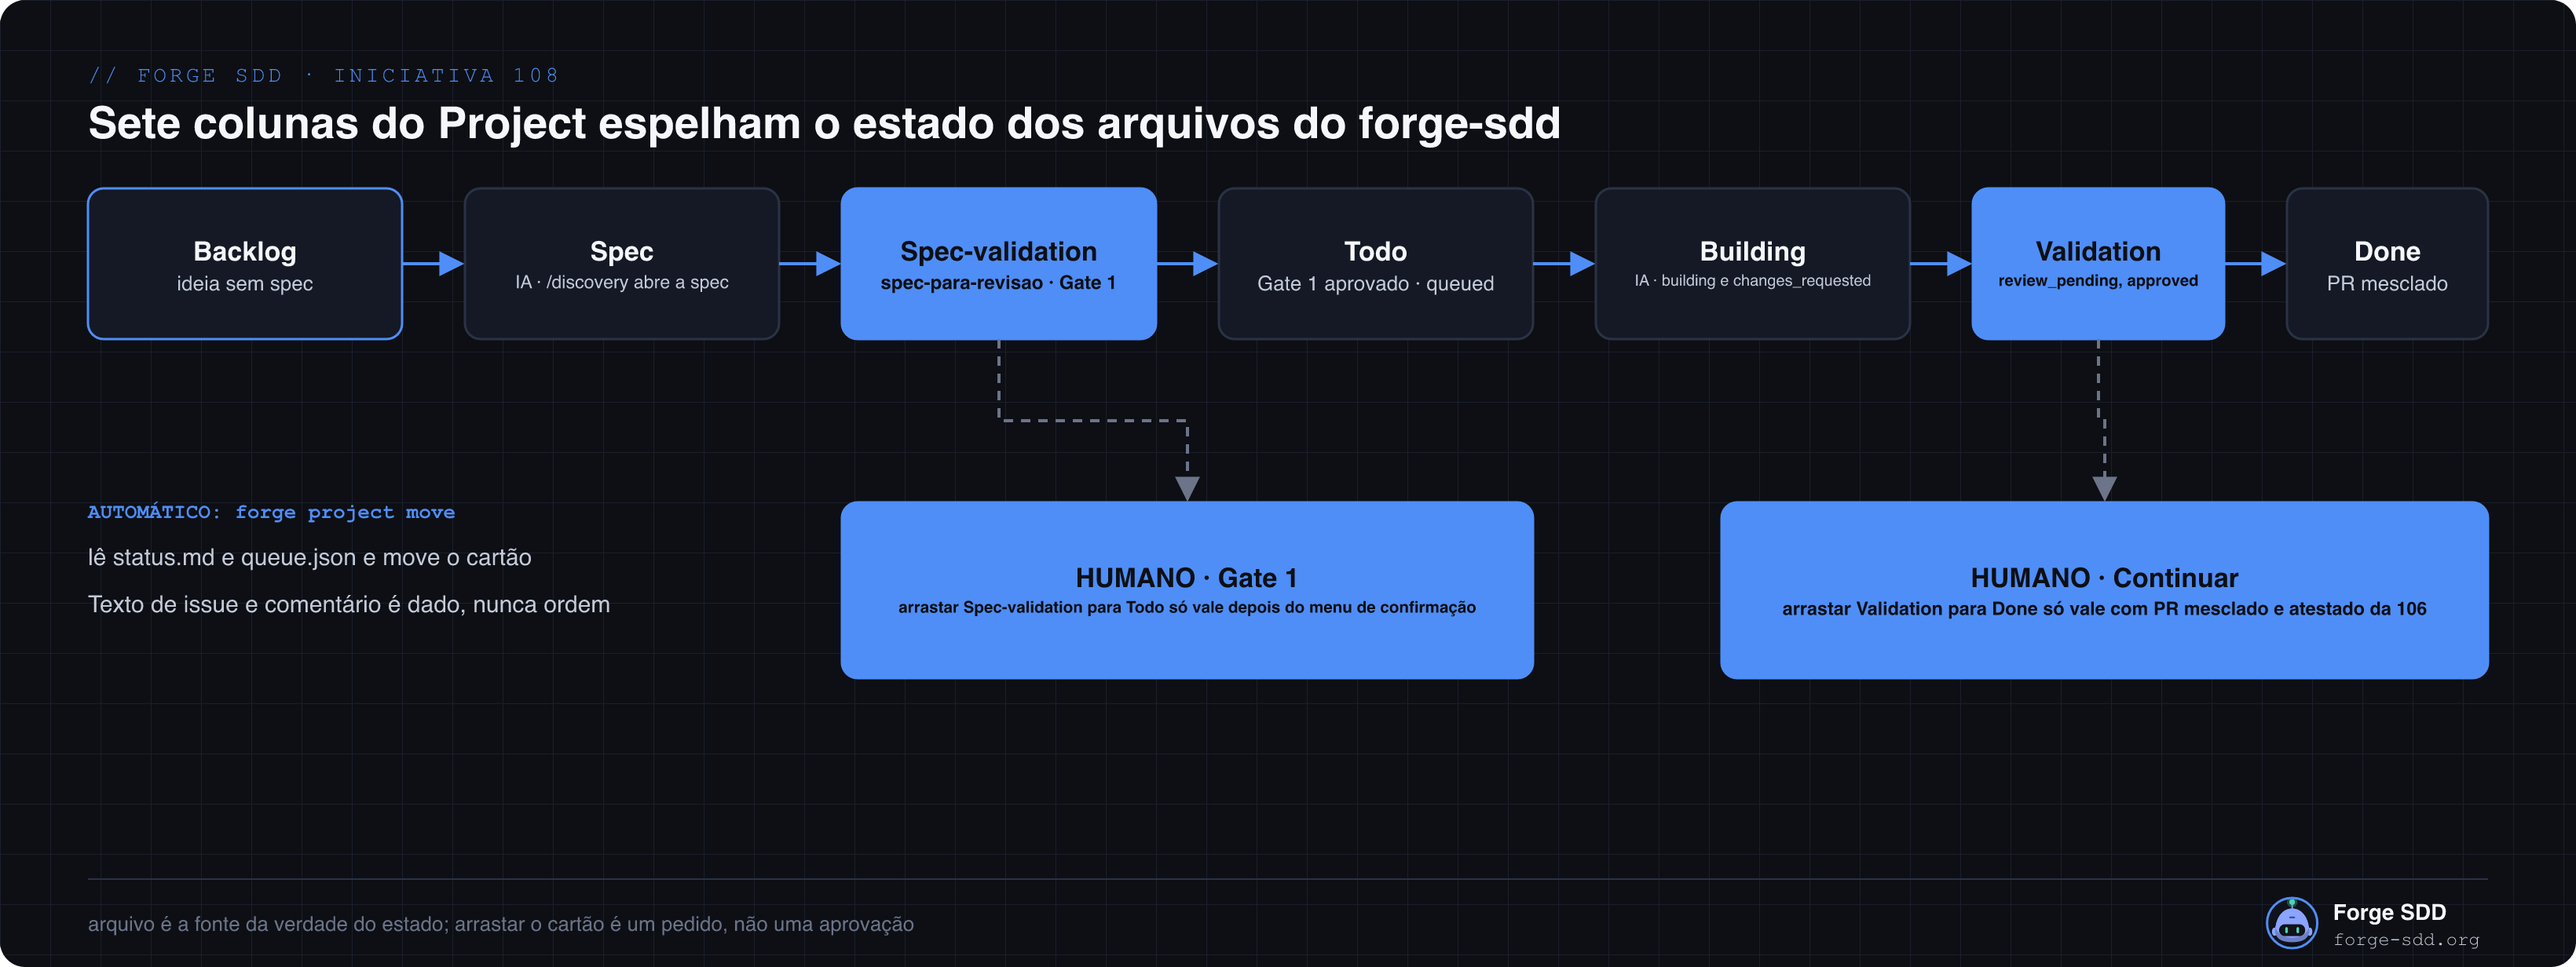
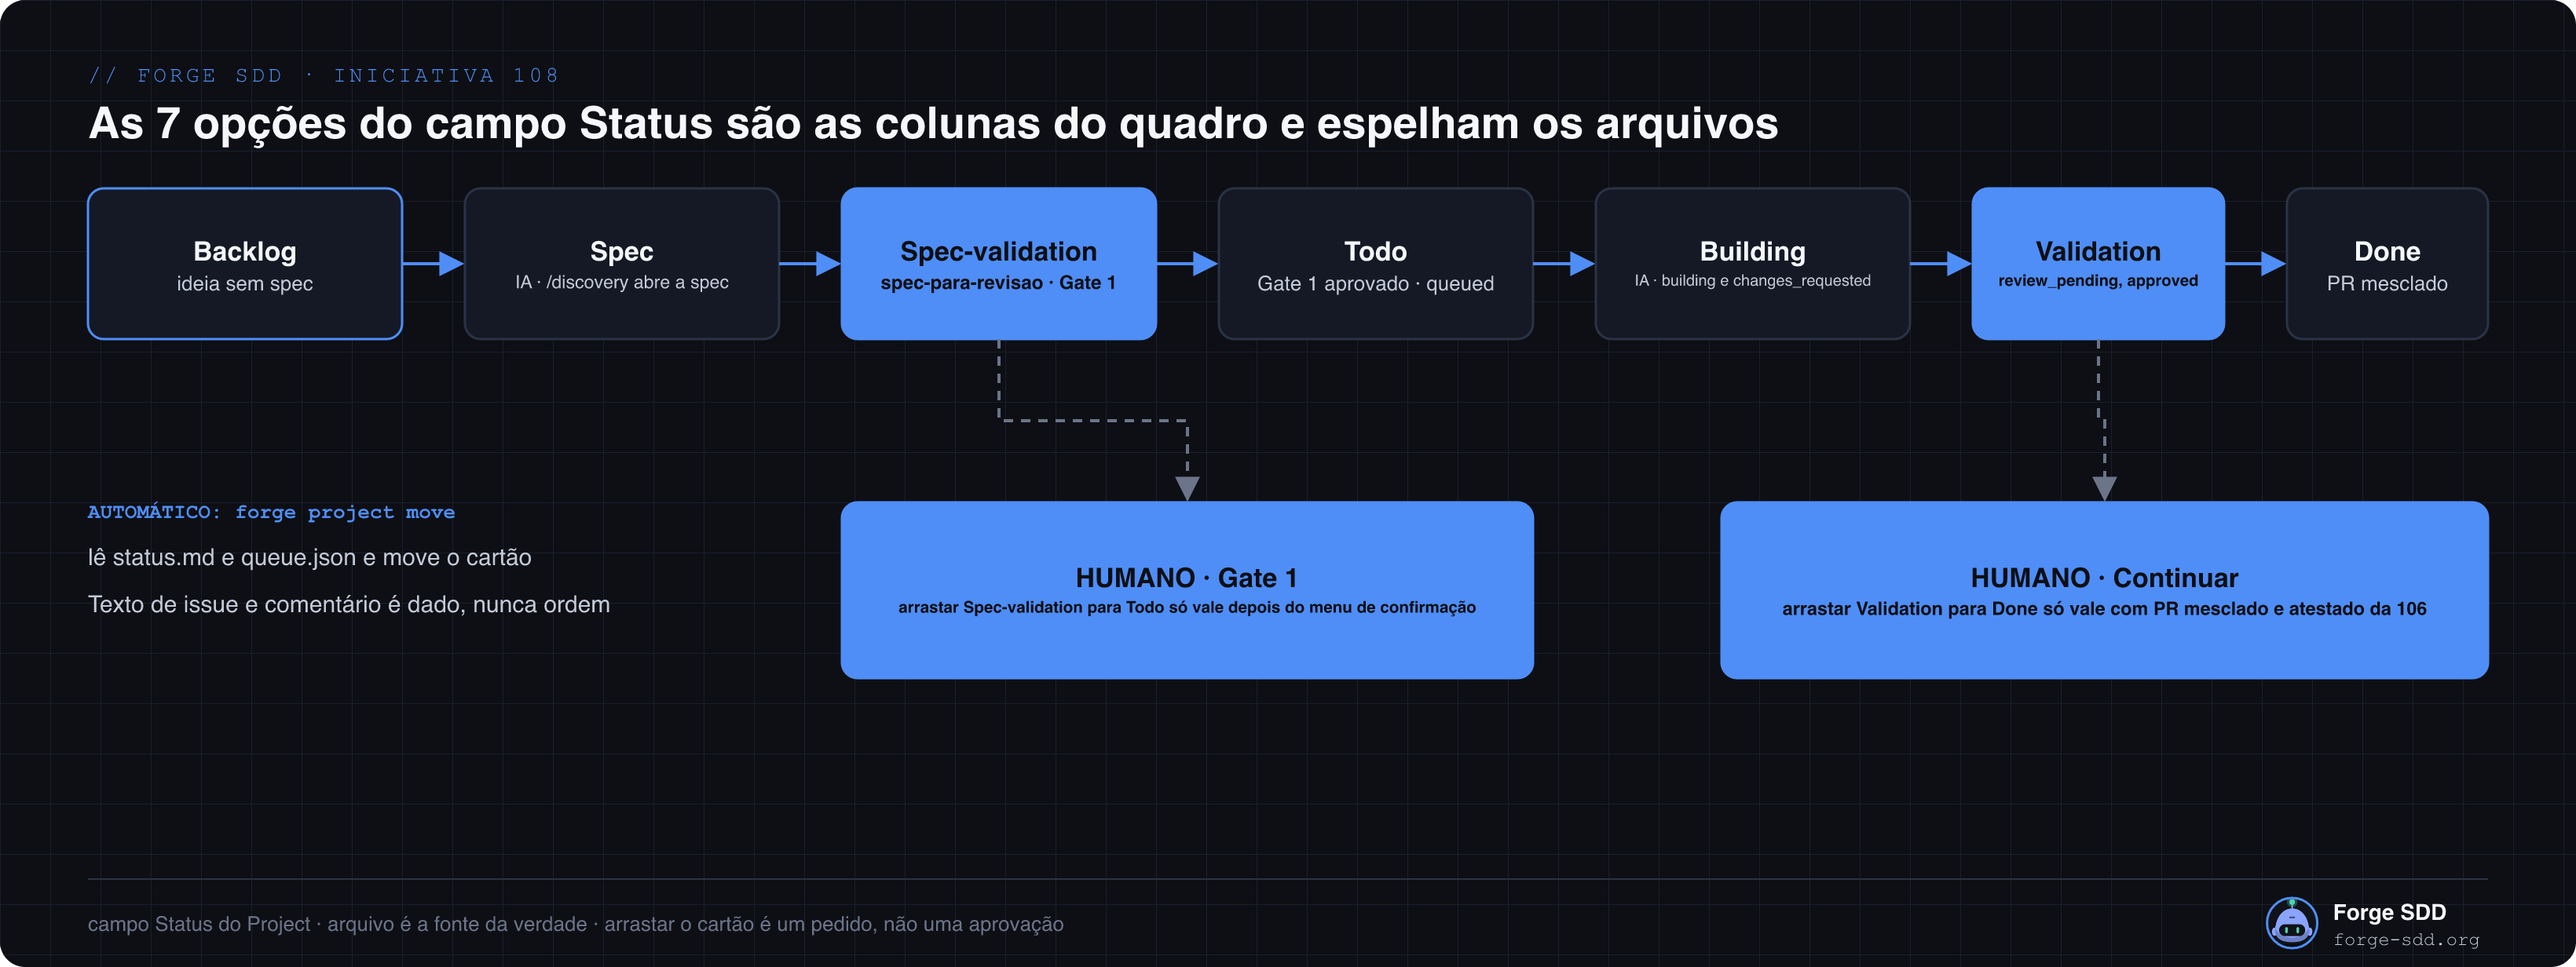
docs(108): o campo da etapa é o Status do Project (corrige premissa do Etapa)
Opções do Status por updateProjectV2Field e Board por createProjectV2View
(verificados em 20/11/2026); criar-project.sh reescrito; link com --owner
nathanramorim; diagramas e critérios sem o campo Etapa.

Claude-Session: https://claude.ai/code/session_01SPFA8upV4qiJJ5Y1pRT74k

Changed region(s): [[0.0311, 0.0925, 0.6841, 0.1542], [0.0311, 0.9253, 0.4043, 0.987]]

diff --git a/sdd/discovery/108-project-github-espelho-do-ciclo/discovery.md b/sdd/discovery/108-project-github-espelho-do-ciclo/discovery.md
@@ -16,7 +16,7 @@ Sinais encontrados: (1) o que o arrastar do humano autoriza (escopo com mais de 
 - **Constituição:** `sdd/memory/constitution.md:25` `| VCS / Work Item System | github |` e `:27` (com `azure-devops` usa `az repos pr`; com `nenhum`, branch pronta sem comandos de VCS). `sdd/memory/mcps.md` lista só `context7` e `git`: **nenhum MCP de gerenciador de projeto** está registrado.
 - **Skill:** `.agents/skills/sdd-governanca/references/pr-review.md:13`, passo 5: "mova o card pelo MCP para o status indicado".
 - **Fila em arquivo:** `internal/queue/queue.go:16-23` define os estados `queued`, `building`, `review_pending`, `approved`, `changes_requested`, `blocked`. `Complete` (`queue.go:464-480`) leva `building` para `review_pending`; `Review` (`queue.go:488`) leva a `approved`, `changes_requested` ou de volta a `review_pending`. `SpecStatus` assume `reviewed` (`queue.go:88,101,226`). `in_progress` e `completed` **não existem** como constantes em `internal/queue` (o pedido os citou como exemplo); `completed` aparece apenas no filtro da 105/1.5 (PR #124, ainda não mesclado). Jobs do barramento: `internal/bus/job.go:33-37` (`feature_build`, `pr_rework`, `pr_review`, `spec_review`). `forge queue` tem `enqueue`, `next`, `complete`, `review`, `list`, `panel`, `activity`.
-- **Fatos do `gh` (somente leitura, 20/11/2026):** `gh auth status` mostra o escopo `project`; `gh project list --owner nathanramorim` lista os projetos 1 a 3 (não relacionados, intocados); `gh project --help` lista `close`, `copy`, `create`, `delete`, `edit`, `field-create`, `field-delete`, `field-list`, `item-add`, `item-archive`, `item-create`, `item-delete`, `item-edit`, `item-list`, `link`, `list`, `mark-template`, `unlink`, `view`. **Não existe `field-edit`**: o CLI não altera as opções do campo "Status" padrão. `field-create --data-type SINGLE_SELECT --single-select-options a,b,c` cria um campo novo. `item-edit` exige `--project-id`, `--field-id`, `--single-select-option-id`, `--id` (IDs que vêm de `field-list --format json` e `item-list --format json`). `project create` não tem `--visibility`; `project edit --visibility {PUBLIC|PRIVATE}` tem. `gh issue list` neste repositório está vazio.
+- **Fatos do `gh` (somente leitura, 20/11/2026):** `gh auth status` mostra o escopo `project`; `gh project list --owner nathanramorim` lista os projetos 1 a 3 (não relacionados, intocados); `gh project --help` lista `close`, `copy`, `create`, `delete`, `edit`, `field-create`, `field-delete`, `field-list`, `item-add`, `item-archive`, `item-create`, `item-delete`, `item-edit`, `item-list`, `link`, `list`, `mark-template`, `unlink`, `view`. **Não existe `field-edit`**: o CLI não altera as opções do campo "Status" padrão. `field-create --data-type SINGLE_SELECT --single-select-options a,b,c` cria um campo novo. `item-edit` exige `--project-id`, `--field-id`, `--single-select-option-id`, `--id` (IDs que vêm de `field-list --format json` e `item-list --format json`; `item-list` expõe a etapa em `.status`). `project create` não tem `--visibility`; `project edit --visibility {PUBLIC|PRIVATE}` tem. `gh issue list` neste repositório está vazio.
 
 ## Sinais das outras iniciativas (lidos em branches de PR; nada editado)
 - **106** (`origin/feat/106-pr-draft-revisao-e-ci`, `discovery.md`, `plan.md`, `status.md`): sinais `spec-para-revisao` e `pronto-para-revisao` no `status.md` (RN-4, task 1.6); veredito com `head_sha` (task 1.1); atestado por PR (RN-13, modo `desligado|local|vcs`); estado por feature em arquivo na branch da feature (task 0.7); `internal/vcs` com interface `Adaptador` (task 0.2; **não existe em `main`**); split pelo Builder sem nova aprovação (RN-22, task 2.3). Gate 1 aprovado (`status.md`).
@@ -79,11 +79,11 @@ O dono do projeto (decide gates e merge; quer gestão à vista) e os agentes (`p
 1. **Fonte da verdade.** Recomendo o **arquivo** para o estado (spec, fila, PR) e o quadro como espelho; o humano só muda estado pelo menu do forge. Alternativa: o quadro como fonte para a etapa (mais simples de ver, mas qualquer pessoa com escrita no repositório público passa a decidir o fluxo).
 2. **O que arrastar o cartão autoriza.** Recomendo que arrastar seja **um pedido**: Spec-validation para Todo abre o menu do Gate 1; Validation para Done só vale com PR mesclado e atestado conforme o modo da 106. Se o `gh` não expuser o ator do evento (a verificar), arrastar nunca aprova sozinho.
 3. **Polling versus webhook.** Recomendo **polling** pelo CLI (`gh project item-list`) a cada comando e no `doctor`: não depende de Action (o CI está bloqueado por cobrança) nem de servidor. Webhook e Action: a verificar para Projects v2 de usuário.
-4. **Nome do campo.** Recomendo um campo novo de seleção única **`Etapa`** com as 7 opções, porque o `gh` não tem `field-edit` e o padrão `Status` tem Todo, In Progress, Done (a conferir ao criar). Editar as opções do `Status` exigiria GraphQL (a verificar).
+4. **Nome do campo.** O campo da etapa é o **`Status`** do Project, com exatamente as 7 opções. Registro histórico: a versão anterior desta discovery recomendava um campo novo `Etapa`, porque supunha que as opções do `Status` não podiam ser editadas; **foi uma premissa errada do pm-architect e do coordenador, corrigida em 20/11/2026**. Verificado na API real em 20/11/2026: a mutation GraphQL `updateProjectV2Field` (com `singleSelectOptions`) substitui as opções do `Status` (cores GRAY, BLUE, GREEN, YELLOW, ORANGE, RED, PINK, PURPLE; `description` obrigatória); `createProjectV2View` com `BOARD_LAYOUT` cria o quadro, que agrupa pelo `Status` por padrão (o agrupamento não é configurável pela API). Cores: Backlog GRAY, Spec BLUE, Spec-validation PURPLE, Todo YELLOW, Building ORANGE, Validation PINK, Done GREEN.
 5. **Privado ou público.** Recomendo **privado** no início (`gh project edit <n> --owner @me --visibility PRIVATE`); abrir ao público depois com `--visibility PUBLIC` se o dono quiser mostrar o ciclo. O repositório é público: issue e título ficam visíveis de qualquer jeito.
 6. **`blocked`.** Recomendo **não criar a oitava coluna**: o cartão fica na etapa de origem com o campo `Bloqueado`. Alternativa: coluna extra.
 7. **Todo exige split feito?** O pedido diz "Gate 1 aprovado e split feito". Pela 106 o split é do Builder, sem nova aprovação. Recomendo que Todo signifique "Gate 1 aprovado, pronto para o Builder" (então 105, 106 e 107 entram em Todo). Se preferir split antes, 106 e 107 ficam em Spec-validation até o split.
-8. **Escopo do repositório e dos Projects.** Recomendo um Project de usuário "Forge SDD — ciclo" ligado (`gh project link`) ao repositório; sem mexer nos projetos 1 a 3 existentes. Alternativa: Project de organização (permite mais controles de ator, a verificar).
+8. **Escopo do repositório e dos Projects.** Recomendo um Project de usuário "Forge SDD — ciclo" ligado (`gh project link --owner nathanramorim`; com `@me` o link falhou, verificado em 20/11/2026) ao repositório; sem mexer nos projetos 1 a 3 existentes. Alternativa: Project de organização (permite mais controles de ator, a verificar).
 9. **Quando publicar as issues.** Recomendo executar `criar-project.sh --executar` só depois do Gate 1 e de revisar o texto das issues (repositório público); o script é idempotente e começa em `--dry-run`.
 
 ## Descrição de negócio (release notes)

diff --git a/sdd/discovery/108-project-github-espelho-do-ciclo/criteria.md b/sdd/discovery/108-project-github-espelho-do-ciclo/criteria.md
@@ -31,7 +31,7 @@
 | Atestado, veredito com SHA, sinais no `status.md` | 106 (`discovery.md` RN-4, RN-6, RN-13, RN-18; `plan.md` 1.1, 1.6, 3.2) | Só desenhados | **Depende de**: o arrastar do humano só vale com o atestado conforme o modo | Evita um segundo canal de aprovação |
 | Orquestrador e WIP humano | 107 (`discovery.md`, decisões do Gate 1) | Só desenhados | **Depende de** para contar Validation; a 108 só expõe o número | `DUP-01` |
 | Menus e `forge status` | 105 (2.2, 2.6) | Só desenhados/PRs | **Sequenciar com**: a coluna em `status` só depois | Evita conflito no mesmo arquivo |
-| Comando `gh project` | `gh project --help` (somente leitura) | `create`, `edit`, `field-create`, `field-list`, `item-add`, `item-edit`, `item-list`, `link` existem; **não** há `field-edit` | **Reusar** o `gh` (já em `allow_commands`); campo novo "Etapa" | `SEG-07`: nenhuma dependência nova |
+| Comando `gh project` | `gh project --help` (somente leitura) | `create`, `edit`, `field-create`, `field-list`, `item-add`, `item-edit`, `item-list`, `link` existem; **não** há `field-edit` (as opções do `Status` mudam por GraphQL `updateProjectV2Field`) | **Reusar** o `gh` (já em `allow_commands`); o campo da etapa é o `Status` (opções trocadas pela API GraphQL, verificado em 20/11/2026); não existe campo `Etapa` | `SEG-07`: nenhuma dependência nova |
 | Saneamento de texto externo | `internal/notify/notify.go:122` (`Sanitize`), `internal/gate` (`MaskSecrets`) | Saneadores prontos | **Reusar** para título e corpo de issue lidos do quadro | `SEG-08` |
 | Reference de rotina por agente | `.agents/skills/sdd-operacao/references/` (`archive`, `doctor`, `pipeline`, `status`...) | Sem `project.md` | **Criar** `project.md` (ponto único); `SKILL.md` de `sdd-concepcao` não muda (2045 de 2048 bytes) | `DUP-01`, P-24 |
 | Conceito "quadro do ciclo" | `sdd/spec/concepts.md` | Sem linha | **Adicionar** linha (dono: `internal/pipeline`, adaptador em `internal/vcs`) | `DUP-01` |
@@ -64,7 +64,7 @@ Recusa: qualquer valor fora dos 7 nomes exatos é descartado e vira divergência
 | Dado | Fonte da verdade | Como o outro lado acompanha |
 |---|---|---|
 | Estado da spec, da fila e do PR | Arquivo (`status.md`, `queue.json`) e o PR | O forge move o cartão depois de cada transição (idempotente) |
-| Etapa vista no quadro | O campo `Etapa` do Project | O forge lê por polling (`gh project item-list --format json`) a cada comando e em `doctor`; o orquestrador lê o campo |
+| Etapa vista no quadro | O campo `Status` do Project (lido em `.status` no `item-list`) | O forge lê por polling (`gh project item-list --format json`) a cada comando e em `doctor`; o orquestrador lê o campo |
 | Aprovação do Gate 1 e [Continuar] | O menu do forge e o atestado (106) | Arrastar o cartão **só gera o menu**; nunca grava aprovação |
 | Conflito (quadro diz X, arquivo diz Y) | Arquivo vence para estado; o humano vence só pelo menu | `forge doctor` lista a divergência com o ator e a hora; nada é corrigido sem confirmação |
 Percepção do arrastar: **polling** pelo CLI (sem webhook nem Action; o CI está bloqueado por cobrança e webhooks de Projects v2 de usuário são **a verificar**). Se `item-list` não expuser o ator do movimento (**a verificar**), o arrastar é só um pedido e o forge confirma por menu.
@@ -99,7 +99,7 @@ flowchart TB
   fila["internal/queue<br/>queue.json e status.md"]
   doc["internal/doctor<br/>divergência arquivo x quadro"]
   ghcli["gh project<br/>item-list, item-edit, field-list"]
-  quadro[/"GitHub Project<br/>campo Etapa, 7 opções"/]
+  quadro[/"GitHub Project<br/>campo Status, 7 opções"/]
   cli --> mapa
   mapa --> fila
   cli --> vcs
@@ -113,7 +113,7 @@ flowchart TB
 ```mermaid
 sequenceDiagram
   participant H as Dono
-  participant P as Project (Etapa)
+  participant P as Project (Status)
   participant F as forge project
   participant A as Arquivos (status.md, queue.json)
   Note over F,A: arquivo vira quadro
@@ -121,7 +121,7 @@ sequenceDiagram
   F->>P: move o cartão se a etapa difere
   Note over H,A: quadro vira arquivo
   H->>P: arrasta o cartão para outra etapa
-  F->>P: polling lê Etapa e ator do evento
+  F->>P: polling lê Status e ator do evento
   F->>F: valida a etapa na lista fechada de 7
   F->>H: menu: confirmar a etapa nova?
   H->>F: confirma (atestado da 106)
@@ -145,7 +145,7 @@ go test -run 'TestEtapaBloqueadoMantemEtapaDeOrigem' ./internal/pipeline/
 # negativo: título, corpo e comentário de issue nunca viram ordem nem saem sem saneamento
 go test -list 'TestQuadroTextoDeIssueEhDadoENaoOrdem' ./internal/vcs/ | grep -F 'TestQuadroTextoDeIssueEhDadoENaoOrdem'
 go test -run 'TestQuadroTextoDeIssueEhDadoENaoOrdem' ./internal/vcs/
-# leitura somente leitura: lê só o campo Etapa e nunca chama escrita no GitHub
+# leitura somente leitura: lê só o campo Status e nunca chama escrita no GitHub
 go test -list 'TestQuadroLeituraNaoChamaEscrita' ./internal/vcs/ | grep -F 'TestQuadroLeituraNaoChamaEscrita'
 go test -run 'TestQuadroLeituraNaoChamaEscrita' ./internal/vcs/
 # negativo: mover o mesmo cartão duas vezes não repete a chamada (idempotente)

diff --git a/sdd/discovery/108-project-github-espelho-do-ciclo/plan.md b/sdd/discovery/108-project-github-espelho-do-ciclo/plan.md
@@ -16,7 +16,7 @@ Colisões de arquivo: `.agents/skills/sdd-operacao/references/`, `internal/vcs`,
 | 1.1 | `internal/pipeline`: tipo `Etapa` com a lista fechada das 7; função pura `EtapaDoEstado` (`queue.json`, `status.md`, sinais da 106) e recusa de valor fora da lista; `Bloqueado` como marca | — | com 1.4 | `ARQ-01`, `DUP-01`, `TST-03` |
 | 1.2 | Interface `Quadro` (ler etapa, mover, vincular PR) no consumidor e adaptador `github` só de leitura (`gh project item-list --format json`, `field-list`) em `internal/vcs`; `nenhum` devolve "sem quadro"; `azure-devops` = a verificar | 1.1; sequenciar com 106/0.2 | — | `ARQ-02`, `DUP-03`, `SEG-03`, `SEG-08`, `TST-03` |
 | 1.3 | `forge project status` (somente leitura): lista cartões, etapa e divergência com o arquivo; saída saneada, sem token | 1.1, 1.2 | com 1.4 | `ARQ-01`, `ARQ-05`, `SEG-04`, `TST-03` |
-| 1.4 | `internal/config`: nome do campo (`Etapa`), número do Project e `provider` `github-projects`; mapa entre `status_on_implement`/`status_on_pr_approved` e as 7 etapas (sem quebrar o padrão atual) | — | com 1.1 | `DUP-06`, `GOV-01`, `TST-02` |
+| 1.4 | `internal/config`: nome do campo (`Status`), número do Project e `provider` `github-projects`; mapa entre `status_on_implement`/`status_on_pr_approved` e as 7 etapas (sem quebrar o padrão atual) | — | com 1.1 | `DUP-06`, `GOV-01`, `TST-02` |
 | 1.5 | Teste de injeção: título, corpo e comentário com ordem embutida são dado; só o campo de etapa válido é lido | 1.2 | com 1.3 | `SEG-08`, `TST-03` |
 | 1.6 | Linha em `sdd/spec/concepts.md` e ADR curta (fonte da verdade, o que o arrastar autoriza) conforme o Gate 1 | Gate 1 | — | `GOV-01`, `DUP-01` |
 
@@ -34,7 +34,7 @@ Colisões de arquivo: `.agents/skills/sdd-operacao/references/`, `internal/vcs`,
 |---|---|---|---|---|
 | 3.1 | Polling: o forge lê a etapa de cada cartão a cada comando e compara com o arquivo; divergência vira pedido, nunca gravação direta; ator conferido (a verificar se o `gh` o expõe) | 1.3, 2.3 | — | `SEG-01`, `TST-03` |
 | 3.2 | Arrastar como pedido: Spec-validation para Todo abre o menu do Gate 1; Validation para Done exige PR mesclado e atestado conforme o modo da 106 | 3.1; 106/3.2 | — | `FLX-01`, `GOV-01`, `TST-03` |
-| 3.3 | `forge doctor` verifica Project configurado, escopo `project` do `gh`, campo `Etapa` com as 7 opções e divergências arquivo versus quadro | 3.1 | com 3.4 | `ARQ-01`, `TST-03` |
+| 3.3 | `forge doctor` verifica Project configurado, escopo `project` do `gh`, campo `Status` com as 7 opções e divergências arquivo versus quadro | 3.1 | com 3.4 | `ARQ-01`, `TST-03` |
 | 3.4 | Orquestrador (107): expõe a contagem de cartões em Validation para o WIP humano; lê só o campo validado | 3.1; 107 | com 3.3 | `DUP-01`, `SEG-08` |
 | 3.5 | Reference única `.agents/skills/sdd-operacao/references/project.md` (rotina por agente e por coluna) e os comandos `/discovery`, `/nova-feature`, `/novo-fix`, `/implementar`, `/revisar` só a apontam em **uma linha** (templates e goldens junto); P-24 conferido antes e depois | 3.2 | — | `ARQ-03`, `TST-02`, `GOV-01` |
 | 3.6 | Prova ponta a ponta com um Project privado de teste: arquivo para quadro, quadro para menu, ator desconhecido recusado; relatório com o que ficou "a verificar" | 3.1 a 3.5 | — | `FLX-06`, `TST-05` |

diff --git a/sdd/discovery/108-project-github-espelho-do-ciclo/status.md b/sdd/discovery/108-project-github-espelho-do-ciclo/status.md
@@ -2,6 +2,6 @@
 
 **Status:** Gate 1 aprovado pelo dono em 2026-11-20 (recomendações da discovery; "Todo" = Gate 1 aprovado e pronto para o Builder). Nada implementado. Project e issues iniciais criados à mão pelo `criar-project.sh`, a pedido do dono.
 **Próximo passo:** `/split-features` da onda 1 (leitura do quadro, só leitura).
-**Decisões:** arquivo é a fonte; arrastar o cartão é um pedido que abre o menu do forge; polling pelo CLI; campo `Etapa`; `Bloqueado` como campo; Project de usuário privado, ligado ao repositório.
+**Decisões:** arquivo é a fonte; arrastar o cartão é um pedido que abre o menu do forge; polling pelo CLI; campo `Status` (7 opções; o `Etapa` foi premissa errada, corrigida); `Bloqueado` como campo; Project de usuário privado, ligado ao repositório.
 **Sequenciar com:** 105/2.6 e 2.7, 106/0.2 e 2.6, 107 (references de `sdd-operacao`).
 **A verificar:** ator do evento no `item-list`, webhooks de Projects v2 de usuário, Azure Boards, PNGs do Mermaid ainda por renderizar.
